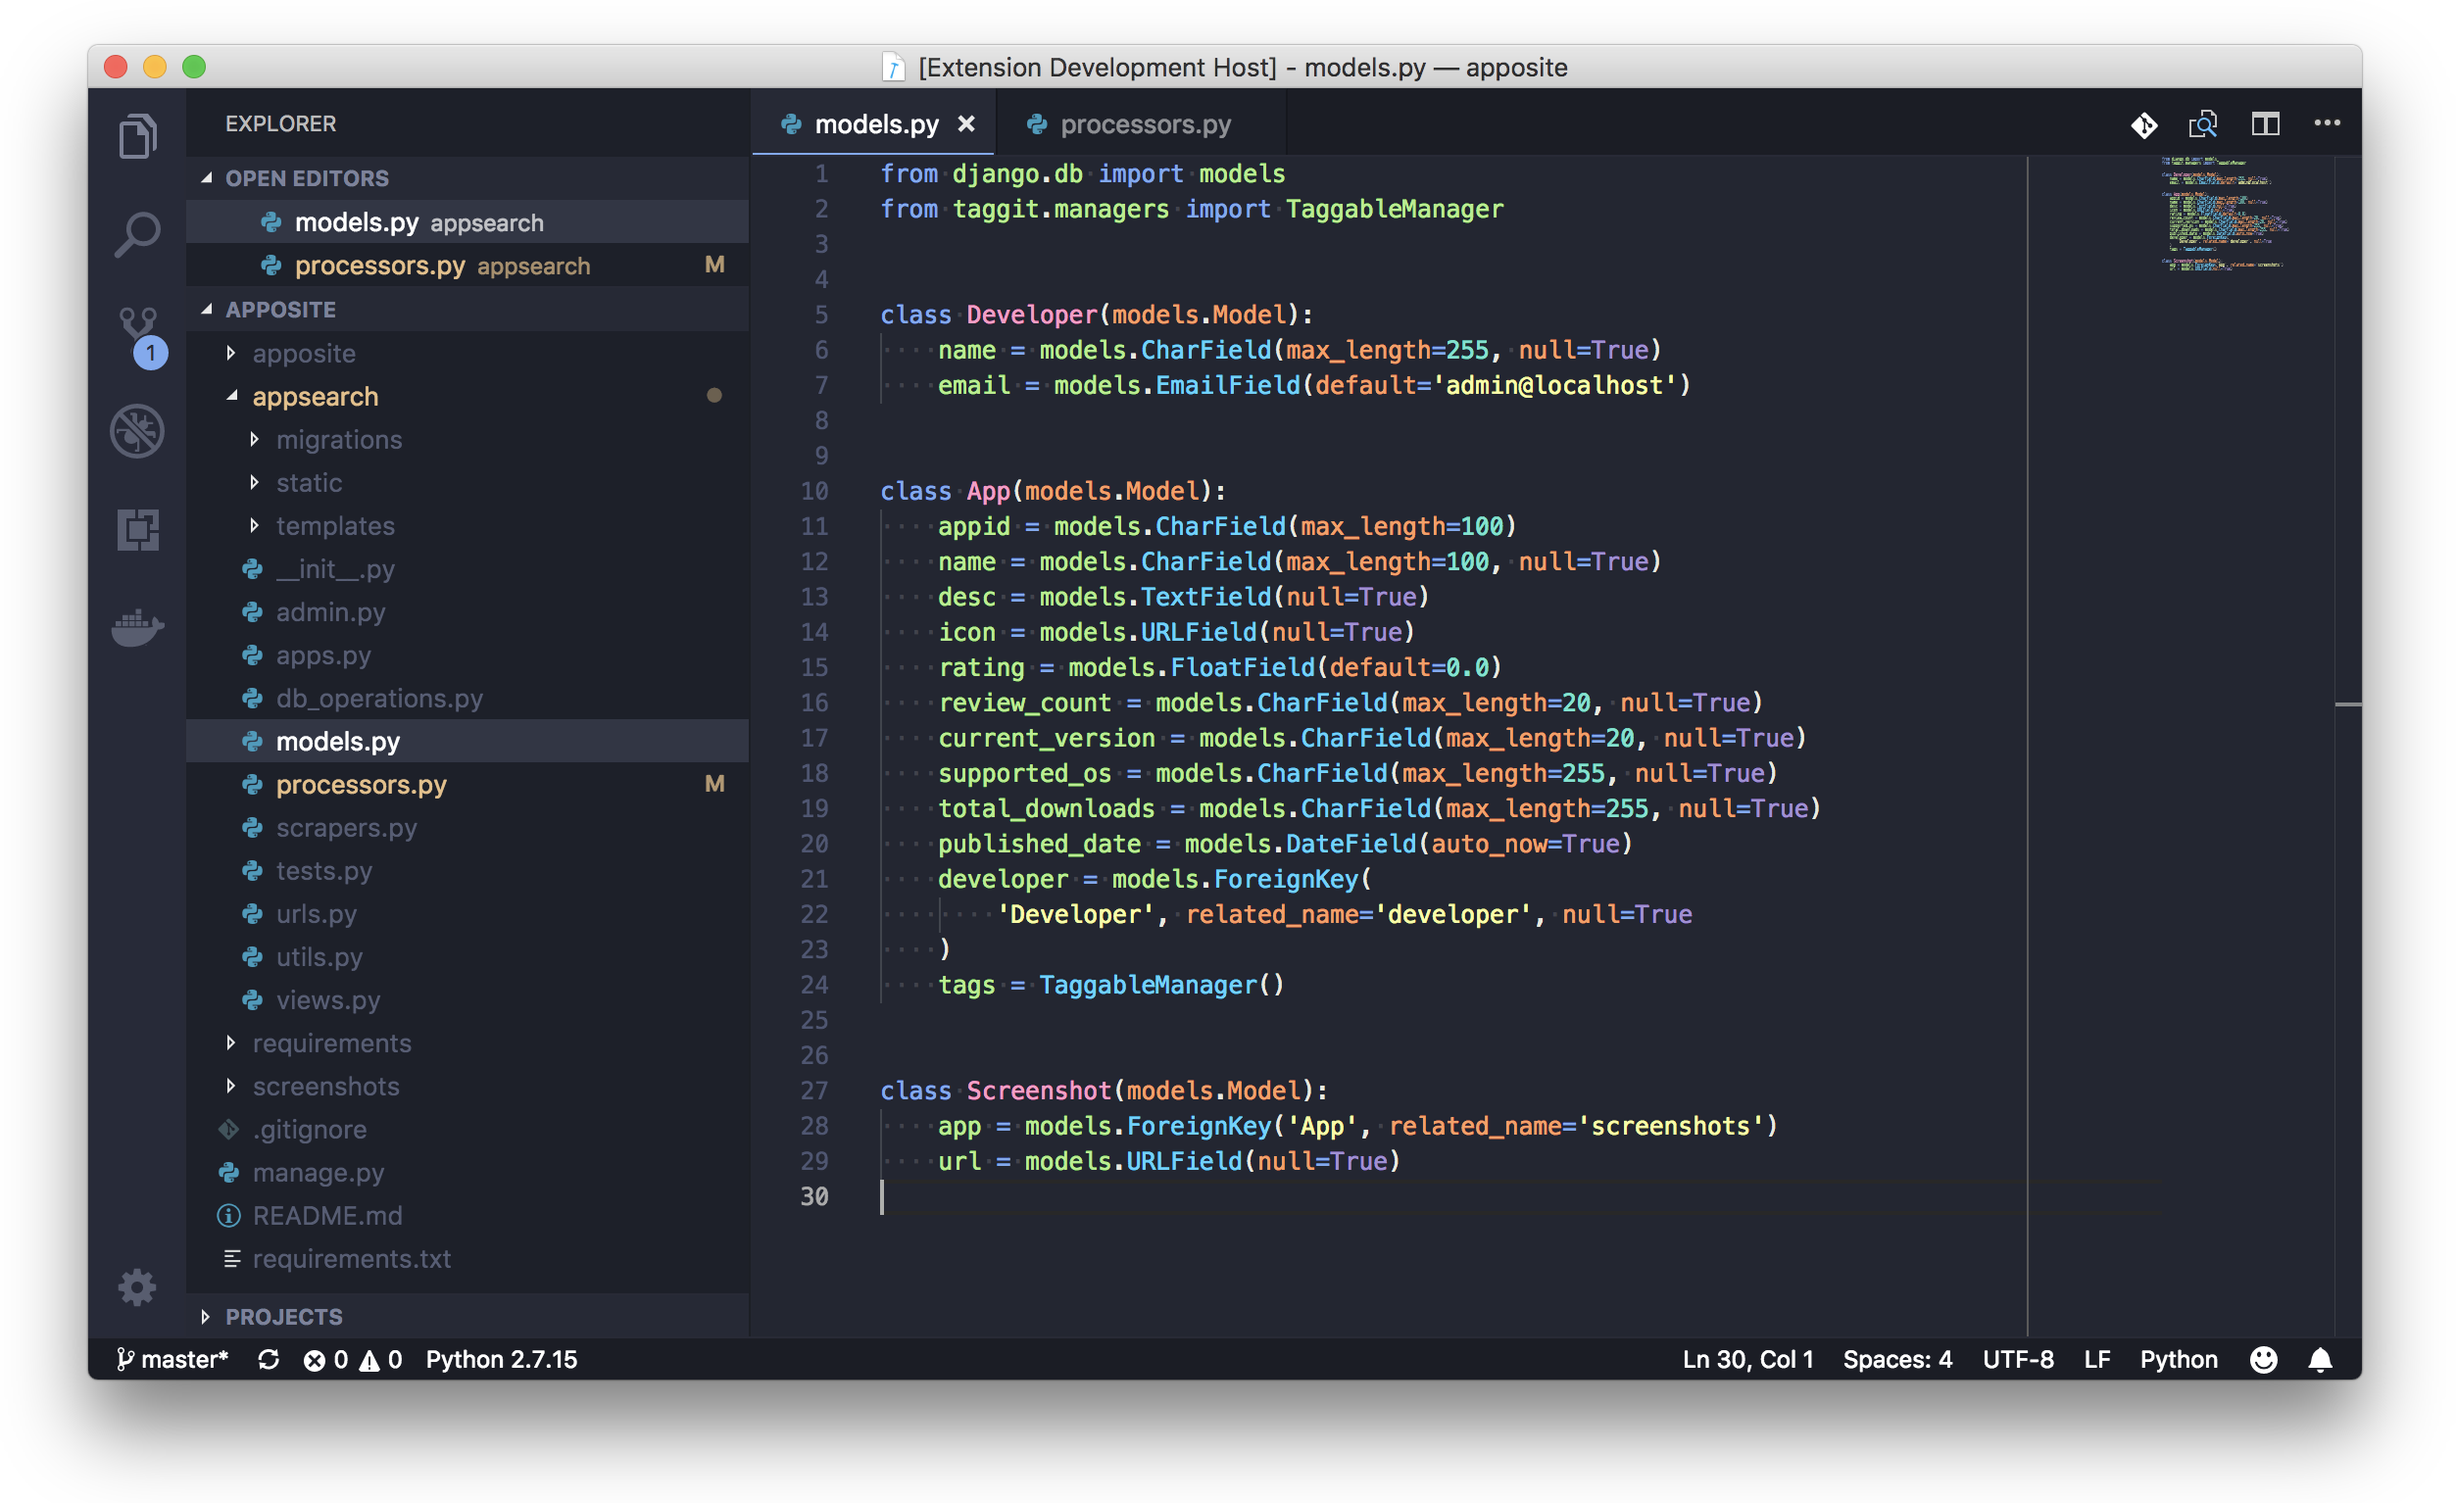
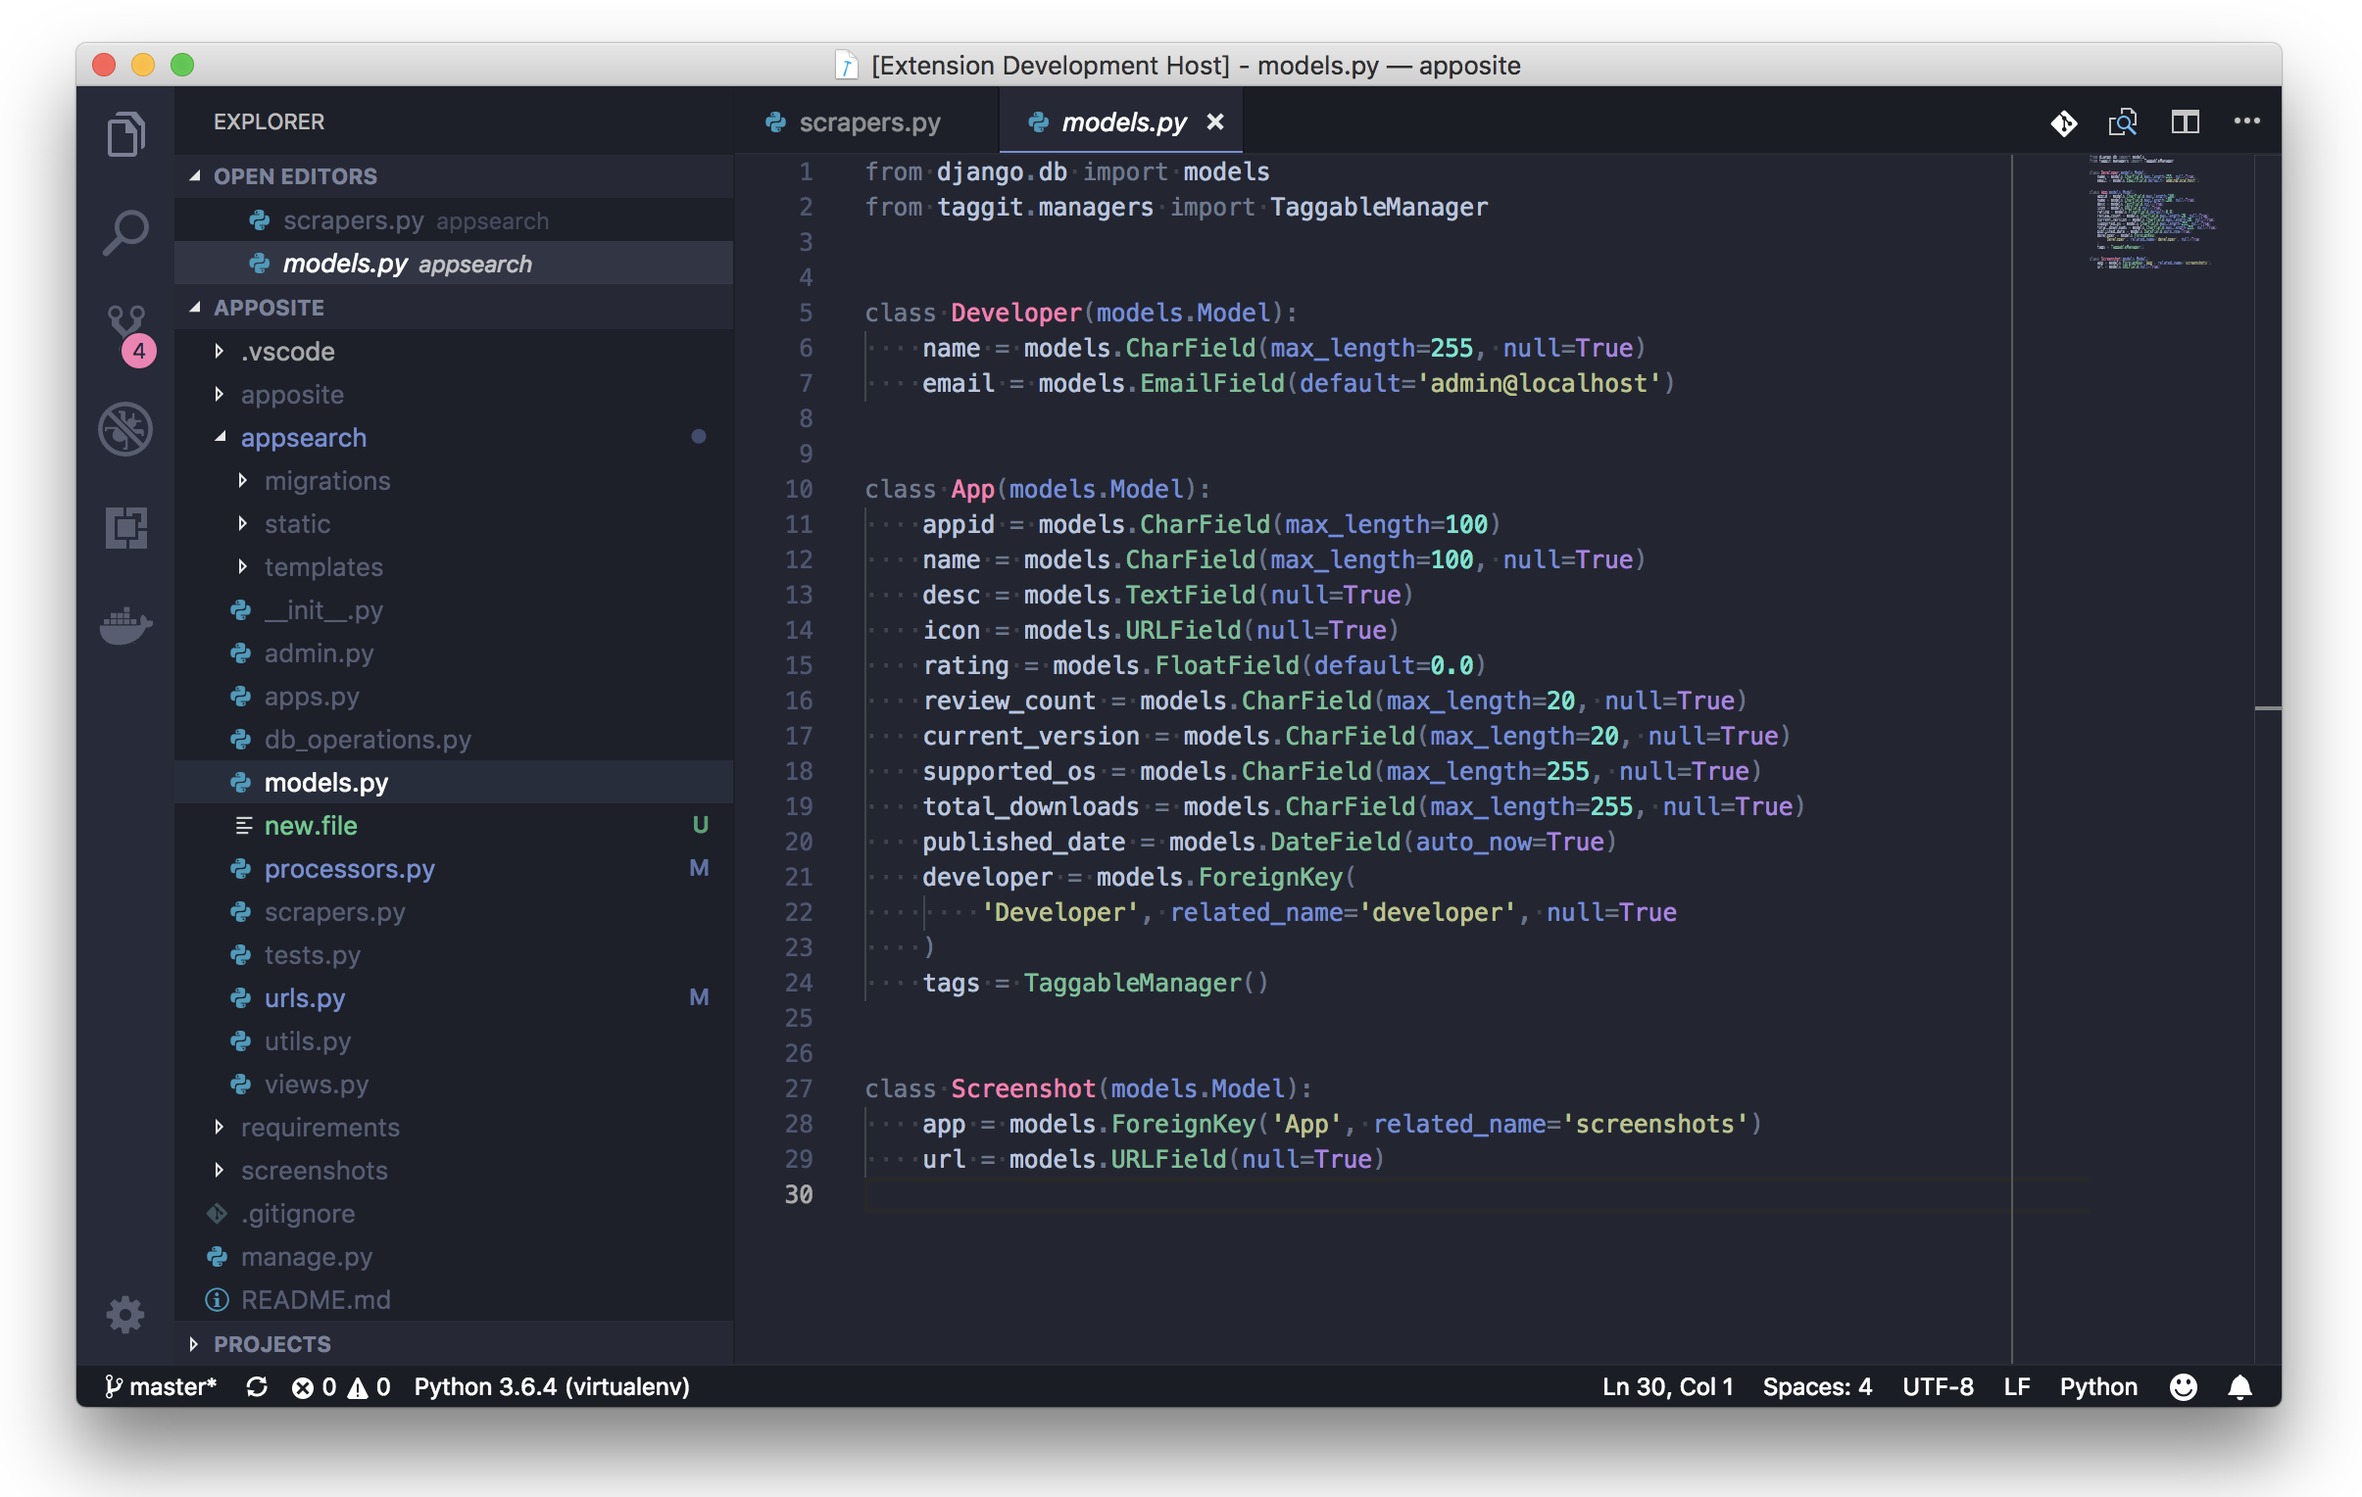
Changes editor theme colors to less bright

diff --git a/README.md b/README.md
@@ -1,7 +1,7 @@
 # Void
 A less bright theme for VS Code. 👩🏻💻
 
-![Void theme](https://raw.githubusercontent.com/Praseetha-KR/void/master/icon.jpg)
+![Void theme](https://raw.githubusercontent.com/Praseetha-KR/void/master/icon.png)
 
 
 
